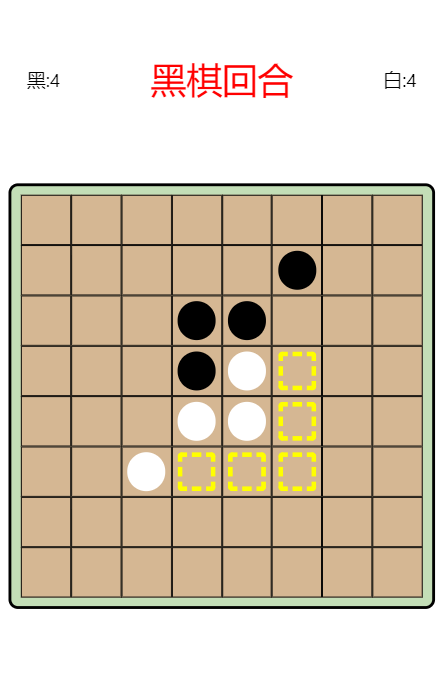
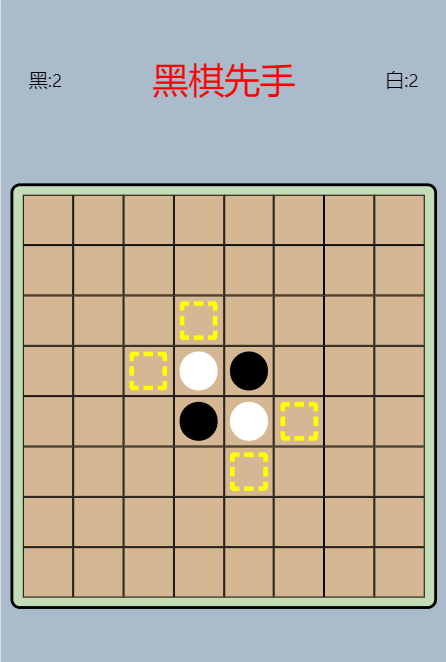
组件化

diff --git a/v3/src/component/Game/index.module.css b/v3/src/component/Game/index.module.css
@@ -1,7 +1,7 @@
 .table {
     width: 100%;
     height: 100%;
-    background: transparent;
+    background: #abc;
     display: flex;
     flex-direction: column;
     align-items: center;
